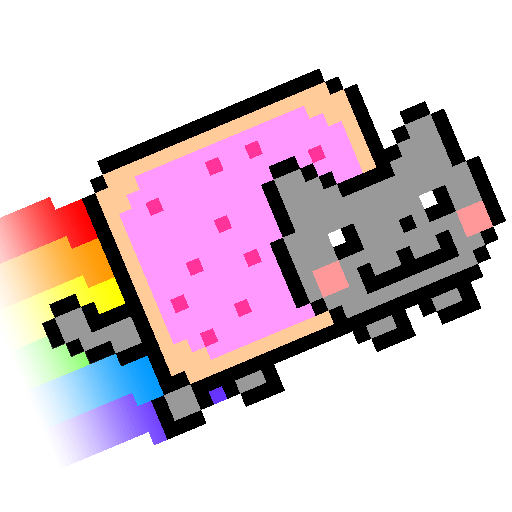
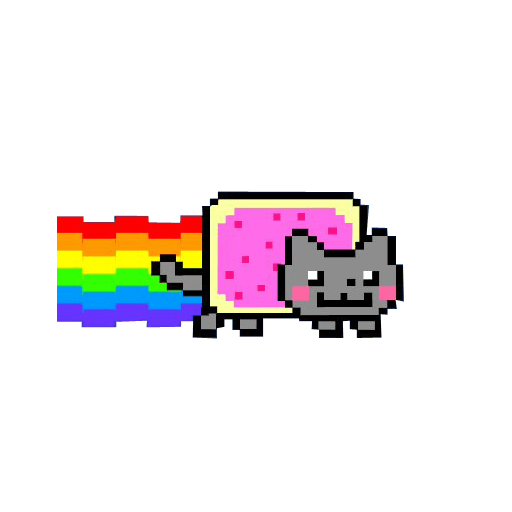
added image to click

diff --git a/script.js b/script.js
@@ -1,0 +1,9 @@
+var rainButton = document.getElementById('NyanButton');
+
+rainButton.addEventListener("click", rain);
+
+function rain() {
+	var nyanImage = document.createElement("img");
+	nyanImage.src = "nyancat.png";
+	document.body.appendChild(nyanImage);
+}
